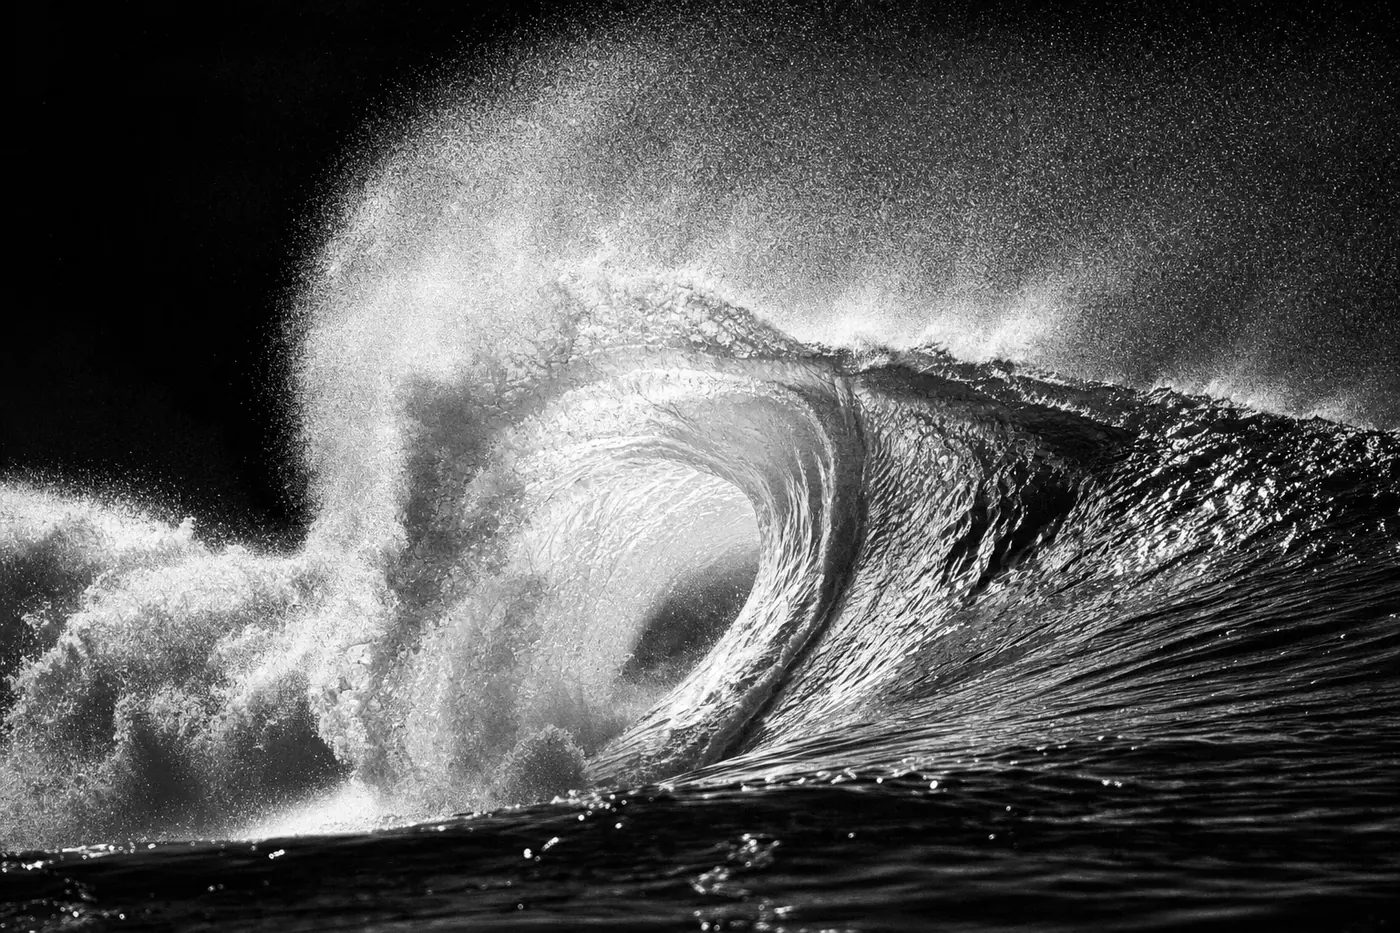
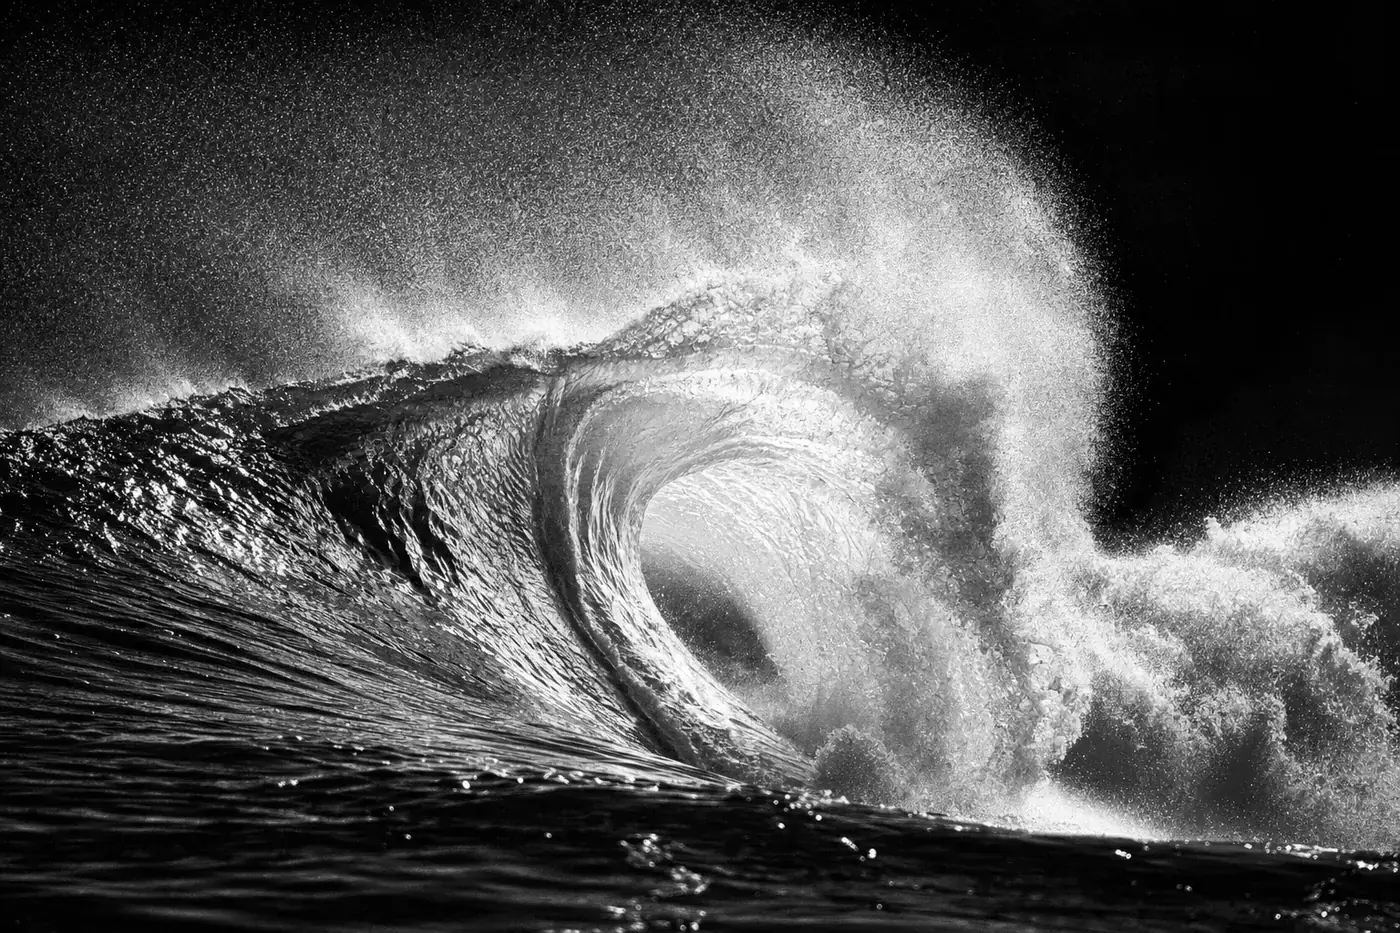
ignyt hero: mirror the wave and tighten the mask so it pools behind the product
The wave went in and landed in the wrong place. Its bright mass sat at 20-60% across,
which is behind the HEADLINE, and background-position-x could not move it: the image is
wider in aspect than the hero, so `cover` scales it to fill the width exactly and there is
no horizontal slack to slide. Fixed by mirroring the asset, which puts the bright peak at
50-80%, over the product, and leaves the headline side dark.

Then the mask was still too wide to be selective. Measured four tightnesses against a
no-plate baseline; at the original 115%/105% the plate lifted the headline band by +9.3
luminance while giving the product region only +4.3, exactly backwards. 58%/85% centred at
80% drops headline interference to +0.55 and holds +3.89 behind the product, so opacity
could go up to .18 rather than down.

Neither of these was visible in the profile of the asset on its own. Both only showed up
by diffing the rendered hero against the same hero with the plate switched off.

diff --git a/glp/glp-free-ignyt-sample/ignyt-sample-optin/block.css b/glp/glp-free-ignyt-sample/ignyt-sample-optin/block.css
@@ -645,14 +645,23 @@
    competing with the headline.
    The mask is the whole trick: without it the photo ends on a hard rectangle edge and reads
    as a pasted-in card. The radial dissolves it into the page on every side.
-   Shipped already greyscale, so the filter is only there to deepen it. */
+   Shipped already greyscale, so the filter is only there to deepen it.
+   ⚠ THE ASSET IS MIRRORED ON PURPOSE. The wave's bright mass sat at 20-60% across, which
+   is behind the HEADLINE, and background-position-x cannot move it: this image is wider in
+   aspect than the hero, so `cover` scales it to fill the width exactly and there is no
+   horizontal slack left to slide. Flipping the file moves the bright peak to 50-80%, which
+   is where the product floats, and leaves the headline side dark. */
 .sk-prod-ig .sk-prod-hero::before{
   content:"";position:absolute;inset:0;z-index:0;pointer-events:none;
-  background:url("assets/hero-wave.webp") 68% 45%/cover no-repeat;
+  background:url("assets/hero-wave.webp") 50% 52%/cover no-repeat;
   filter:grayscale(1) contrast(1.3) brightness(.92);
-  opacity:.15;
-  -webkit-mask-image:radial-gradient(115% 105% at 70% 42%,#000 0%,rgba(0,0,0,.7) 40%,transparent 74%);
-  mask-image:radial-gradient(115% 105% at 70% 42%,#000 0%,rgba(0,0,0,.7) 40%,transparent 74%);
+  /* Mask tightness picked by measuring, not by eye. At the original 115%/105% the plate was
+     so wide it lifted the HEADLINE band by +9.3 luminance while giving the product region
+     only +4.3, which is backwards. Pulling it to 58%/85% centred at 80% drops headline
+     interference to +0.55 and keeps +3.89 behind the product. */
+  opacity:.18;
+  -webkit-mask-image:radial-gradient(58% 85% at 80% 50%,#000 0%,rgba(0,0,0,.55) 40%,transparent 70%);
+  mask-image:radial-gradient(58% 85% at 80% 50%,#000 0%,rgba(0,0,0,.55) 40%,transparent 70%);
 }
 /* The hero content has to out-stack the plate, or the copy sits behind it.
    ⚠ Target the WRAP, never `> *`. The two .sk-prod-orb blurs are position:absolute in the
@@ -666,8 +675,10 @@
   /* On a phone the plate sits under body copy rather than beside it, so it comes down
      further and shifts to centre. */
   .sk-prod-ig .sk-prod-hero::before{
-    background-position:58% 40%;opacity:.11;
-    -webkit-mask-image:radial-gradient(130% 70% at 50% 30%,#000 0%,rgba(0,0,0,.65) 42%,transparent 76%);
-    mask-image:radial-gradient(130% 70% at 50% 30%,#000 0%,rgba(0,0,0,.65) 42%,transparent 76%);
+    /* On a phone the plate sits under the copy, not beside it, so it drops low and stays
+       weak enough that the lede never fights it. */
+    background-position:58% 62%;opacity:.13;
+    -webkit-mask-image:radial-gradient(95% 46% at 50% 78%,#000 0%,rgba(0,0,0,.55) 40%,transparent 72%);
+    mask-image:radial-gradient(95% 46% at 50% 78%,#000 0%,rgba(0,0,0,.55) 40%,transparent 72%);
   }
 }
